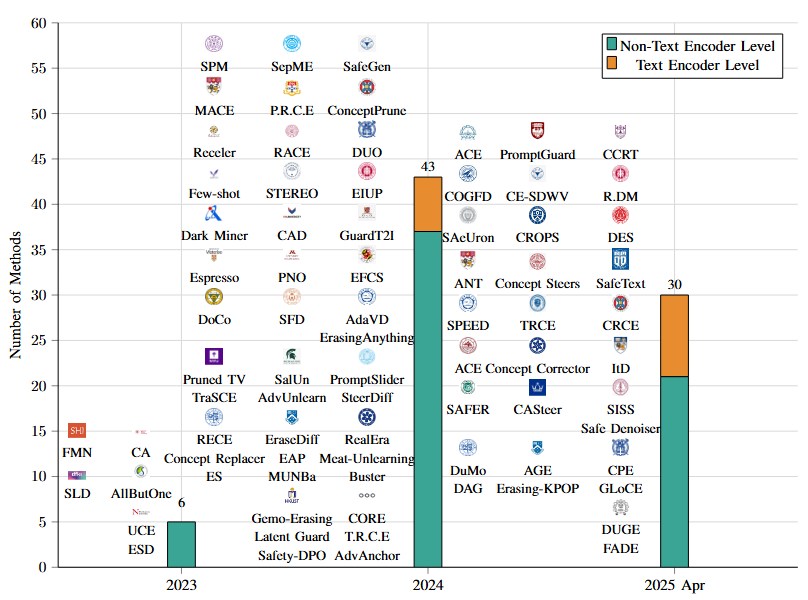
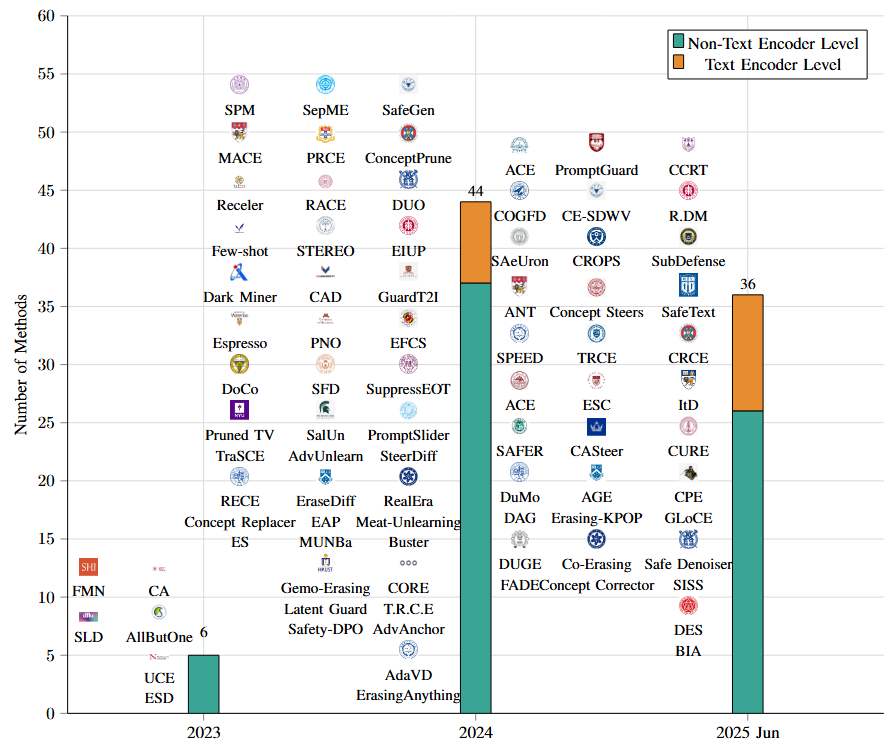
Update

Changed region(s): [[0.0, 0.0, 0.9901, 0.99], [0.7426, 0.03, 0.9901, 0.15]]

diff --git a/README.md b/README.md
@@ -93,9 +93,7 @@ If you believe there are additional works that should be included in our list, p
    Concept Steerers: Leveraging K-Sparse Autoencoders for Controllable  Generations
 5. [ICML2025] [📄Paper](https://icml.cc/virtual/2025/poster/46380)   [<span style="color:rgb(37, 98, 53);">:bulb:Code</span>](https://github.com/cywinski/SAeUron)   <br>
    SAeUron: Interpretable Concept Unlearning in Diffusion Models with Sparse Autoencoders
-6. [arXiv2025] [📄Paper](https://arxiv.org/pdf/2505.12677)      <br>
-   CURE: Concept Unlearning via Orthogonal Representation Editing in Diffusion Models
-7. [arXiv2025] [📄Paper](https://arxiv.org/pdf/2504.21307)    <br>
+6. [arXiv2025] [📄Paper](https://arxiv.org/pdf/2504.21307)    <br>
    The Dual Power of Interpretable Token Embeddings: Jailbreaking Attacks and Defenses for Diffusion Model Unlearning
 
 
@@ -177,6 +175,8 @@ If you believe there are additional works that should be included in our list, p
    Precise, Fast, and Low-cost Concept Erasure in Value Space: Orthogonal Complement Matters
 8. [arXiv2025] [📄Paper](https://export.arxiv.org/abs/2503.07392)     [<span style="color:rgb(37, 98, 53);">:bulb:Code</span>](https://github.com/Ouxiang-Li/SPEED)  <br>
    SPEED: Scalable, Precise, and Efficient Concept Erasure for Diffusion Models
+9. [arXiv2025] [📄Paper](https://arxiv.org/pdf/2505.12677)      <br>
+   CURE: Concept Unlearning via Orthogonal Representation Editing in Diffusion Models
 
 
 ###### Externally guided or explicit intervention optimization
@@ -198,8 +198,10 @@ If you believe there are additional works that should be included in our list, p
    Unveiling Concept Attribution in Diffusion Models
 4. [arXiv2024] [📄Paper](https://arxiv.org/pdf/2404.03631v2)    [<span style="color:rgb(37, 98, 53);">:bulb:Code</span>](https://github.com/mnpham0417/prompt-agnostic-concept-erasure)   <br>
    Robust Concept Erasure Using Task Vectors
-5. [CVPR2025] [📄Paper](https://arxiv.org/pdf/2503.12356)   [<span style="color:rgb(37, 98, 53);">:bulb:Code</span>](https://arxiv.org/pdf/2503.12356)   <br>
+5. [CVPR2025] [📄Paper](https://arxiv.org/pdf/2503.12356)   [<span style="color:rgb(37, 98, 53);">:bulb:Code</span>](https://github.com/Hyun1A/GLoCE)   <br>
    Localized Concept Erasure for Text-to-Image Diffusion Models  Using Training-Free Gated Low-Rank Adaptation
+6. [CVPR2025] [📄Paper](https://arxiv.org/pdf/2504.02199)   [<span style="color:rgb(37, 98, 53);">:bulb:Code</span>](https://github.com/KU-VGI/ESC)   <br>
+   ESC: Erasing Space Concept for Knowledge Deletion
 
 
 ###### Loss-Driven Concept Erasure
@@ -305,7 +307,7 @@ If you believe there are additional works that should be included in our list, p
    MUNBa: Machine Unlearning via Nash Bargaining
 8. [arXiv2024] [📄Paper](https://arxiv.org/pdf/2404.03631v2)    [<span style="color:rgb(37, 98, 53);">:bulb:Code</span>](https://github.com/mnpham0417/prompt-agnostic-concept-erasure)   <br>
    Robust Concept Erasure Using Task Vectors
-9. [CVPR2025] [📄Paper](https://arxiv.org/pdf/2503.12356)   [<span style="color:rgb(37, 98, 53);">:bulb:Code</span>](https://arxiv.org/pdf/2503.12356)   <br>
+9. [CVPR2025] [📄Paper](https://arxiv.org/pdf/2503.12356)   [<span style="color:rgb(37, 98, 53);">:bulb:Code</span>](https://github.com/Hyun1A/GLoCE)   <br>
    Localized Concept Erasure for Text-to-Image Diffusion Models  Using Training-Free Gated Low-Rank Adaptation
 10. [ICLR2025] [📄Paper](https://openreview.net/pdf?id=kSdWcw5mkp)    [<span style="color:rgb(37, 98, 53);">:bulb:Code</span>](https://github.com/ruchikachavhan/concept-prune)   <br>
    ConceptPrune: Concept Editing in Diffusion Models via Skilled Neuron Pruning
@@ -325,6 +327,12 @@ If you believe there are additional works that should be included in our list, p
    CURE: Concept Unlearning via Orthogonal Representation Editing in Diffusion Models
 18. [arXiv2025] [📄Paper](https://arxiv.org/pdf/2504.21307)    <br>
    The Dual Power of Interpretable Token Embeddings: Jailbreaking Attacks and Defenses for Diffusion Model Unlearning
+19. [ICLR2024] [📄Paper](https://arxiv.org/pdf/2402.05375)   [<span style="color: rgb(37, 98, 53);">:bulb:Code</span>](https://github.com/sen-mao/SuppressEOT) <br>
+   Get What You Want, Not What You Don't: Image Content Suppression for Text-to-Image Diffusion Models
+20. [CVPR2025] [📄Paper](https://arxiv.org/pdf/2504.02199)   [<span style="color:rgb(37, 98, 53);">:bulb:Code</span>](https://github.com/KU-VGI/ESC)   <br>
+   ESC: Erasing Space Concept for Knowledge Deletion
+
+
 
 
 ###### Plug-in Adapters
@@ -451,6 +459,8 @@ If you believe there are additional works that should be included in our list, p
     SafeGen: Mitigating Sexually Explicit Content Generation in Text-to-Image Models
 38. [ECCV2024] [📄Paper](https://arxiv.org/pdf/2310.05873)  <br>
     Implicit Concept Removal of Diffusion Models
+39. [ICML2025] [📄Paper](https://arxiv.org/pdf/2505.11131)   [<span style="color:rgb(37, 98, 53);">:bulb:Code</span>](https://github.com/Ferry-Li/Co-Erasing) <br>
+    One Image is Worth a Thousand Words: A Usability Preservable Text-Image Collaborative Erasing Framework
 
 ---
 
@@ -520,6 +530,8 @@ If you believe there are additional works that should be included in our list, p
     SafeGen: Mitigating Sexually Explicit Content Generation in Text-to-Image Models
 32. [ACM CODASPY2025] [📄Paper](https://arxiv.org/abs/2404.19227)     [<span style="color:rgb(37, 98, 53);">:bulb:Code</span>](https://github.com/ssg-research/concept-filtering) <br>
    Espresso: Robust Concept Filtering in Text-to-Image Models
+33. [CVPR2025] [📄Paper](https://drive.google.com/file/d/1svUXu-COwCSKC3XHiUvbVp0bYe1ukqlg/view)   <br>
+    Black Hole-Driven Identity Absorbing in Diffusion Models
 
 
 ###### Multi-concept
@@ -559,7 +571,7 @@ If you believe there are additional works that should be included in our list, p
    Safe Latent Diffusion:  Mitigating Inappropriate Degeneration in Diffusion Models
 18. [arXiv2025] [📄Paper](https://arxiv.org/pdf/2502.08011)   
    Training-Free Safe Denoisers for Safe Use of Diffusion Models
-19. [CVPR2025] [📄Paper](https://arxiv.org/pdf/2503.12356)   [<span style="color:rgb(37, 98, 53);">:bulb:Code</span>](https://arxiv.org/pdf/2503.12356)   <br>
+19. [CVPR2025] [📄Paper](https://arxiv.org/pdf/2503.12356)   [<span style="color:rgb(37, 98, 53);">:bulb:Code</span>](https://github.com/Hyun1A/GLoCE)   <br>
    Localized Concept Erasure for Text-to-Image Diffusion Models  Using Training-Free Gated Low-Rank Adaptation
 20. [arXiv2025] [📄Paper](https://arxiv.org/pdf/2412.10493)   [<span style="color:rgb(37, 98, 53);">:bulb:Code</span>](https://github.com/Visualignment/SafetyDPO) <br>
    SafetyDPO: Scalable Safety Alignment for Text-to-Image Generation
@@ -584,11 +596,14 @@ If you believe there are additional works that should be included in our list, p
 30. [ICLR2024] [📄Paper](https://arxiv.org/pdf/2402.05375)   [<span style="color: rgb(37, 98, 53);">:bulb:Code</span>](https://github.com/sen-mao/SuppressEOT) <br>
    Get What You Want, Not What You Don't: Image Content Suppression for Text-to-Image Diffusion Models
 31. [ICML2025] [📄Paper](https://arxiv.org/pdf/2505.11131)   [<span style="color:rgb(37, 98, 53);">:bulb:Code</span>](https://github.com/Ferry-Li/Co-Erasing) <br>
-    One Image is Worth a Thousand Words: A Usability Preservable Text-Image Collaborative Erasing Frameworks
-32. [arXiv2025] [📄Paper](https://arxiv.org/pdf/2505.12677)      <br>
+    One Image is Worth a Thousand Words: A Usability Preservable Text-Image Collaborative Erasing Framework
+32. [arXiv2025] [📄Paper](https://arxiv.org/pdf/2504.21307)    <br>
+   The Dual Power of Interpretable Token Embeddings: Jailbreaking Attacks and Defenses for Diffusion Model Unlearning 
+33. [arXiv2025] [📄Paper](https://arxiv.org/pdf/2505.12677)      <br>
    CURE: Concept Unlearning via Orthogonal Representation Editing in Diffusion Models
-33. [arXiv2025] [📄Paper](https://arxiv.org/pdf/2504.21307)    <br>
-   The Dual Power of Interpretable Token Embeddings: Jailbreaking Attacks and Defenses for Diffusion Model Unlearning
+34. [CVPR2025] [📄Paper](https://arxiv.org/pdf/2504.02199)   [<span style="color:rgb(37, 98, 53);">:bulb:Code</span>](https://github.com/KU-VGI/ESC)   <br>
+   ESC: Erasing Space Concept for Knowledge Deletion
+
 
 
 
@@ -671,7 +686,7 @@ If you believe there are additional works that should be included in our list, p
 17. [NeurIPS2024] [📄Paper](https://proceedings.neurips.cc/paper_files/paper/2023/file/b733cdd80ed2ae7e3156d8c33108c5d5-Paper-Conference.pdf)  [<span style="color:rgb(37, 98, 53);">:bulb:Code</span>](https://github.com/duchengbin8/Stable_Diffusion_is_Unstable)  <br>
     Stable diffusion is unstable
 18. [EMNLP2024] [📄Paper](https://arxiv.org/pdf/2409.15381)  [<span style="color:rgb(37, 98, 53);">:bulb:Code</span>](https://github.com/shahariar-shibli/Adversarial-Attack-on-POS-Tags)  <br>
-    Adversarial Attacks on Parts of Speech: An Empirical Study in Text-to-Image Generation
+    Adversarial Attacks on Parts of Speech: An Empirical Study in Text-to-Image Generation 
 19. [arXiv2024] [📄Paper](https://arxiv.org/pdf/2408.00523)   <br>
     Jailbreaking Text-to-Image Models with LLM-Based Agents
 20. [ACM CCS 2024] [📄Paper](https://arxiv.org/pdf/2309.14122)  [<span style="color:rgb(37, 98, 53);">:bulb:Code</span>](https://github.com/Zjm1900/SurrogatePrompt?tab=readme-ov-file) <br>
@@ -686,11 +701,8 @@ If you believe there are additional works that should be included in our list, p
    The Dual Power of Interpretable Token Embeddings: Jailbreaking Attacks and Defenses for Diffusion Model Unlearning
 25. [arXiv2025] [📄Paper](https://arxiv.org/pdf/2504.21072)    <br>
    Erased but Not Forgotten: How Backdoors Compromise Concept Erasure
-
----
-## 🔗 Relevant Surveys
-[arxiv2025] [📄Paper](https://arxiv.org/abs/2502.14896)  <br>
-
+26. [CVPR2025] [📄Paper](https://drive.google.com/file/d/1svUXu-COwCSKC3XHiUvbVp0bYe1ukqlg/view)   <br>
+    Black Hole-Driven Identity Absorbing in Diffusion Models
 
 ---
 ## 🔗 Relevant Surveys
